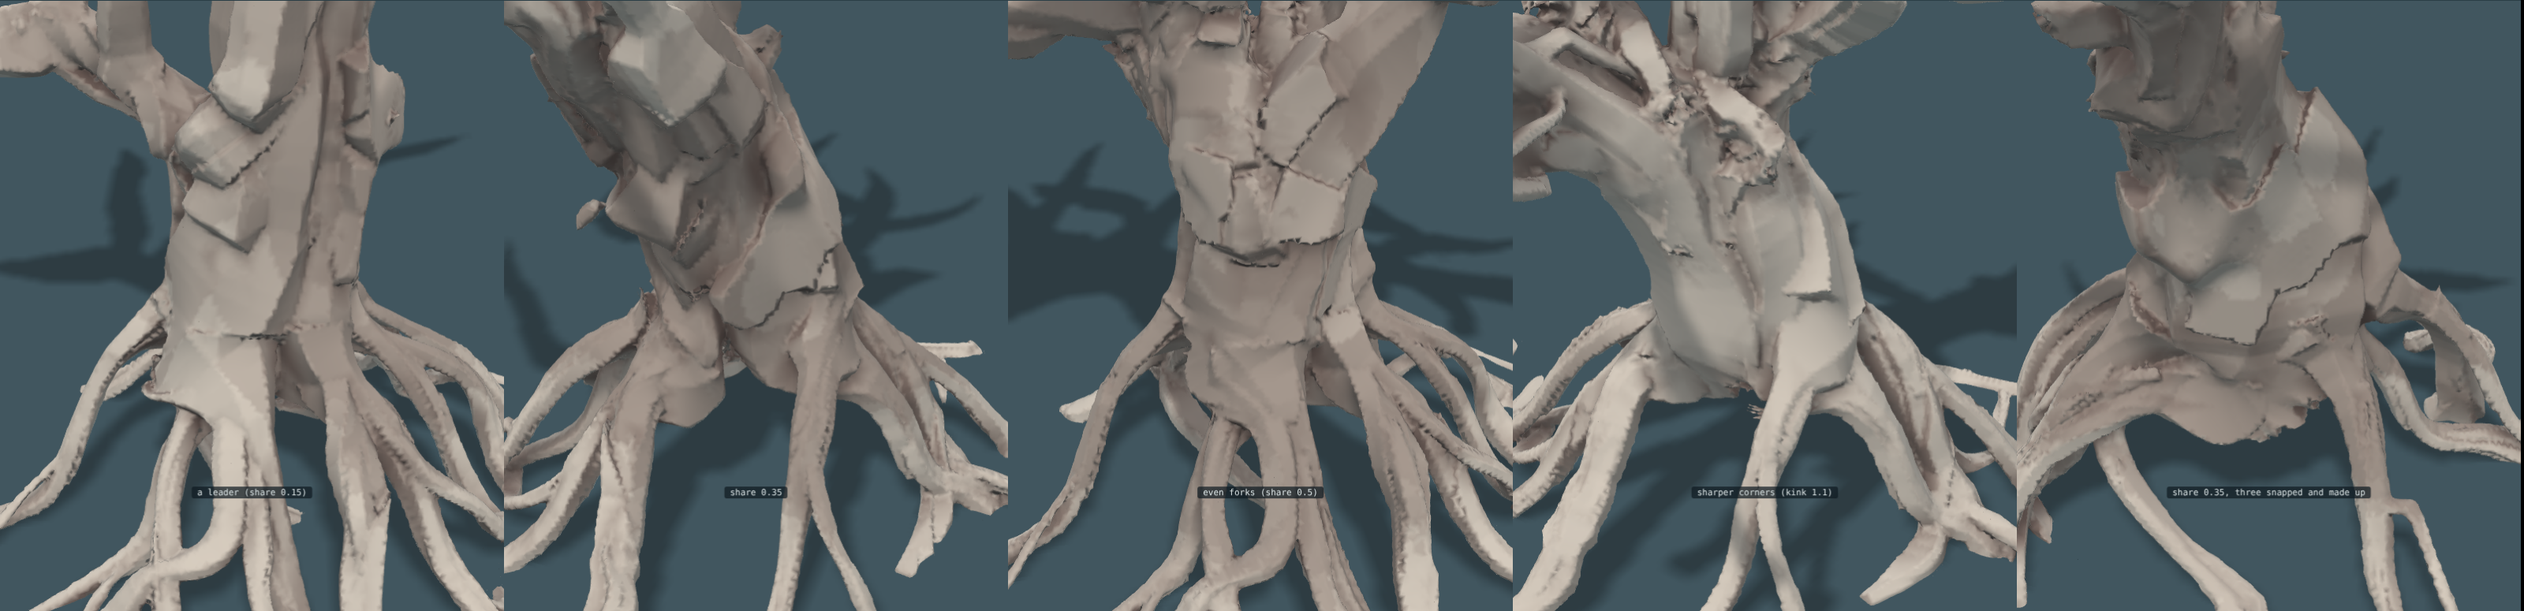
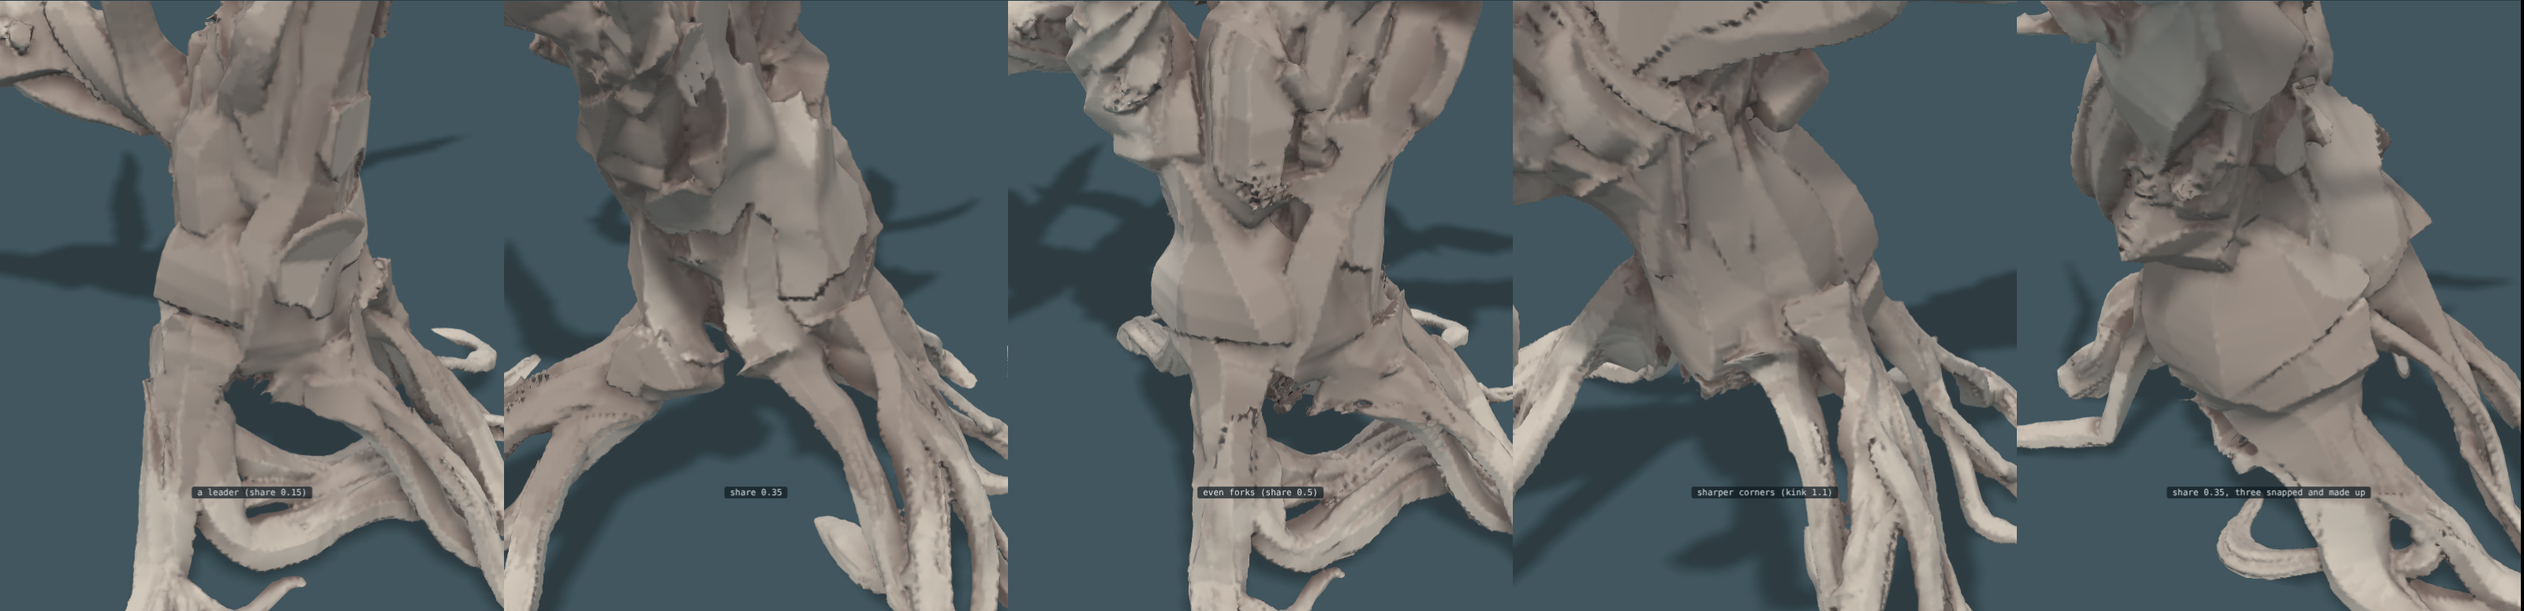
Hierarchy comes from the strands, not the share-out; and a ground that can say where it is soft
Claude-Session: https://claude.ai/code/session_0192rgp75jGkttZXf7hEakip

diff --git a/trees.js b/trees.js
@@ -30,10 +30,10 @@
   function frames(P) { let N = null; return P.map((p, i) => { const T = unit([0, 1, 2].map((k) => P[Math.min(P.length - 1, i + 1)][k] - P[Math.max(0, i - 1)][k])); N = unit((N || [1, 0, 0.2]).map((v, k, A) => v - T[k] * dot(A, T))); return [T, N, cross(T, N)]; }); }
 
   function grow(recipe) {
-    const P = Object.assign({ strands: 8, fill: 0.75, uneven: 0.5, twist: 0.5, taut: 0.3, stiff: 0.05, hug: 0.15, bind: 0.004, roots: 0.6, wind: 1.1, mixed: false, lmax: 0, set: 0, swell: 1, feet: 0, lap: 0, ground: null, down: 0.6, crease: 3.2, seam: 0.55, seams: 7, hem: 2.2, leg: 0.16, knuckle: 0.55, knee: 0.3, sinew: 0.17, apart: 1, slack: 0.11, press: 1.3, forkBy: 0.42, weave: 1, bridge: 2.2, toe: 0.13, tip: 0.26, snake: 1, air: 0.18, reach: 0.6, eyes: 0.4, hang: 0.3, bold: 0.35, brace: 0.12, bite: 1.8, forks: 1, dive: 0.12, slant: 0.75, clumps: 3, cling: 0.88, grip: 0.5, collar: 2, flare: 0.07, waste: 0.25, clear: 1, settle: 0, giving: 0.75, passes: 1500, ds: 0.035, seed: 1, trunk: [[0, 0.14, 0, 0.27], [0, 1.6, 0, 0.1]], limbs: [], orb: null }, recipe);
+    const P = Object.assign({ strands: 8, fill: 0.75, uneven: 0.5, twist: 0.5, taut: 0.3, stiff: 0.05, hug: 0.15, bind: 0.004, roots: 0.6, wind: 1.1, mixed: false, lmax: 0, set: 0, swell: 1, feet: 0, lap: 0, ground: null, down: 0.6, crease: 3.2, seam: 0.55, seams: 7, hem: 2.2, leg: 0.16, knuckle: 0.55, knee: 0.3, sinew: 0.17, apart: 1, bury: 0, rank: 2.6, slack: 0.11, press: 1.3, forkBy: 0.42, weave: 1, bridge: 2.2, toe: 0.13, tip: 0.26, snake: 1, air: 0.18, reach: 0.6, eyes: 0.4, hang: 0.3, bold: 0.35, brace: 0.12, bite: 1.8, forks: 1, dive: 0.12, slant: 0.75, clumps: 3, cling: 0.88, grip: 0.5, collar: 2, flare: 0.07, waste: 0.25, clear: 1, settle: 0, giving: 0.75, passes: 1500, ds: 0.035, seed: 1, trunk: [[0, 0.14, 0, 0.27], [0, 1.6, 0, 0.1]], limbs: [], orb: null }, recipe);
     // The ground, if the tree is given one: any function of a place that is how far it is outside the ground (less than
     // nothing inside). Without one the ground is the level at height 0, as it always was. (A grown tree is always given one, level if nothing else, so that its roots are walked.)
-    const G = P.ground, gradG = G ? (x, y, z) => { const e = 0.008; return unit([G(x + e, y, z) - G(x - e, y, z), G(x, y + e, z) - G(x, y - e, z), G(x, y, z + e) - G(x, y, z - e)]); } : null, rootPts = [];
+    const G = P.ground, softAt = G && G.soft && P.bury ? G.soft : null, gradG = G ? (x, y, z) => { const e = 0.008; return unit([G(x + e, y, z) - G(x - e, y, z), G(x, y + e, z) - G(x, y - e, z), G(x, y, z + e) - G(x, y, z - e)]); } : null, rootPts = [];
     // How hollow the ground is at a place: positive in a groove, negative over a rib, zero on anything flat or
     // evenly sloped. Taken from the ground alone, so every root that crosses the same seam finds the same seam.
     const nook = G ? (p, nn) => { const e = 0.05, t1 = unit(cross(nn, Math.abs(nn[1]) < 0.85 ? UP : [1, 0, 0])), t2 = cross(nn, t1); let a = 4 * G(p[0], p[1], p[2]);
@@ -73,7 +73,7 @@
     // stream, so every new thing asked of a root on ground moved every draw after it and the level-ground trees
     // changed although no rule of theirs had. They are their own question and they get their own numbers.
     let walkN = 0;
-    const walk = G ? (p0, away, rho0, len, dives, collar) => { const rw = rng(P.seed * 7919 + (walkN++) * 104729), rb2 = r, rx = [], rr = [], c0 = G(p0[0], p0[1], p0[2]), most = Math.round(len / ds) * 5, wob = TAU * rw(), wl = 0.25 + 0.3 * rw();
+      const walk = G ? (p0, away, rho0, len, dives, collar, rank) => { const rw = rng(P.seed * 7919 + (walkN++) * 104729), rb2 = r, rx = [], rr = [], c0 = G(p0[0], p0[1], p0[2]), most = Math.round(len / ds) * 5, wob = TAU * rw(), wl = 0.25 + 0.3 * rw();
       // Whether this root is one that will go over an edge at all. Most turn and run along the lip, where the
       // soil is; a `bold` one commits to the face, and once on it braces rather than hangs. A rule that tells
       // every root the same thing gives either a cliff no root will touch or a cliff every root pours down.
@@ -86,7 +86,7 @@
             for (let it = 0; it < 14; it++) { const gn = gradG(q[0], q[1], q[2]); q = [0, 1, 2].map((c) => q[c] - gn[c] * G(q[0], q[1], q[2])); }
             tot++; if (Math.abs(gradG(q[0], q[1], q[2])[1]) > 0.72 && q[1] > p0[1] - 0.32) good++; } }
         lieShare = good / tot; }
-      const heavy = Math.max(0, Math.min(1, (rho0 / P.trunk[0][3] - 0.07) / 0.2));
+      const heavy = Math.max(0, Math.min(1, (rho0 * (rank || 1) / P.trunk[0][3] - 0.07) / 0.2));
       const bold = rw() < Math.min(0.9, P.bold * (0.3 + 1.9 * (1 - lieShare)) * (1.4 - 0.9 * heavy)) ? 0.12 : 1;
       const hookAt = 0.5 + 0.38 * rw();
       let braceWay = rw() < 0.5 ? 1 : -1, hooked = 0;
@@ -119,7 +119,7 @@
       const sinew = (far) => 1 + P.sinew * (0.62 * Math.sin(sp1 + TAU * far / sl1) + 0.38 * Math.sin(sp2 + TAU * far / sl2));
       const girth = (g, far) => sinew(far) * rho0 * (collar ? P.grip * (1 + (P.collar - 1) * Math.pow(Math.max(0, 1 - far / P.flare), 1.6)) : 1) * (1 - P.waste * g) * (dives ? 1 : Math.pow(Math.min(1, (1 - g) / P.toe), 0.7) * (1 - P.tip) + P.tip);
       const room = (pr, own) => { if (Math.abs(pr[0]) > 0.97 || Math.abs(pr[2]) > 0.97) return 0; let near = 0.22; for (const q of rootPts) near = Math.min(near, H(pr[0] - q[0], pr[1] - q[1], pr[2] - q[2])); for (let e = 0; e < own; e++) near = Math.min(near, H(pr[0] - rx[e][0], pr[1] - rx[e][1], pr[2] - rx[e][2])); return near; };
-      for (let m = 1; m <= most && prog < len; m++) { const g = Math.min(1, prog / len), rad = girth(g, gone), nn = gradG(pos[0], pos[1], pos[2]), nk = Math.min(1.4, nook(pos, nn) * P.seams), hug = rad * (legHug - P.knuckle * 0.6 * Math.max(0, 1 - since / 2.5)) - rad * P.seam * Math.max(0, nk) + rad * 0.5 * Math.max(0, Math.min(1, -nk)) - rad * P.bite * Math.max(0, 1 - Math.abs(nn[1]) - 0.45) / 0.3 * Math.max(hooked, Math.max(0, Math.min(1, nk)), 0.5 * Math.max(0, Math.sin(wob * 2 + TAU * gone / (wl * 0.55)))), want = c0 + (hug - c0) * sstep(0, P.dive + P.slant * steepness * Math.max(0, c0), gone) - (dives ? 0.3 * sstep(0.72, 1, g) : 0);
+      for (let m = 1; m <= most && prog < len; m++) { const g = Math.min(1, prog / len), rad = girth(g, gone), nn = gradG(pos[0], pos[1], pos[2]), nk = Math.min(1.4, nook(pos, nn) * P.seams), sf = softAt ? Math.max(0, Math.min(1, softAt(pos[0], pos[1], pos[2]))) : 0, hug = rad * (legHug - P.bury * sf - P.knuckle * 0.6 * Math.max(0, 1 - since / 2.5)) - rad * P.seam * Math.max(0, nk) + rad * 0.5 * Math.max(0, Math.min(1, -nk)) - rad * P.bite * Math.max(0, 1 - Math.abs(nn[1]) - 0.45) / 0.3 * Math.max(hooked, Math.max(0, Math.min(1, nk)), 0.5 * Math.max(0, Math.sin(wob * 2 + TAU * gone / (wl * 0.55)))), want = c0 + (hug - c0) * sstep(0, P.dive + P.slant * steepness * Math.max(0, c0), gone) - (dives ? 0.3 * sstep(0.72, 1, g) : 0);
         let tt = h.map((v, k) => v - nn[k] * dot(h, nn)); const dn = UP.map((v, k) => -(v - nn[k] * nn[1])), dl = H(dn[0], dn[1], dn[2]); if (H(tt[0], tt[1], tt[2]) < 0.2) tt = dl > 1e-6 ? dn : cross(nn, [1, 0, 0]); tt = unit(tt);
         // On a face it cannot lie on, a root does not hang down it: it braces. It works across the fall line in
         // runs, turning hard at the end of each so the turns are corners and not a curve, and it bites in — it is
@@ -201,7 +201,7 @@
         // whatever its line does in plan. That is a ribbon on a surface.
         // (this holds on the way down as well: a root does not slide down to the ground, it comes down in steps,
         //  on its knuckles, with the spans between them riding high)
-        { const plant = turning || since <= 1, stand = want + P.bridge * rad;
+        { const plant = turning || since <= 1, stand = want + P.bridge * rad * (1 - sf);
           for (let it = 0; it < 3; it++) { const gn = gradG(nx[0], nx[1], nx[2]), gv = G(nx[0], nx[1], nx[2]);
             const to = plant ? want : gv < want ? want : gv > stand ? stand : gv;
             if (to === gv) break;
@@ -279,6 +279,15 @@
     const clump = []; { const rc = rng(P.seed + 404), nc = Math.max(1, P.clumps); const a0 = TAU * rc();
       for (let i = 0; i < nc; i++) clump.push(a0 + TAU * (i + 0.5 * (rc() - 0.5)) / nc); }
     const toClump = (a) => { let best = a, bd = 9; for (const c of clump) { let d = Math.abs(((c - a + PI) % TAU + TAU) % TAU - PI); if (d < bd) { bd = d; best = c; } } return a + (((best - a + PI) % TAU + TAU) % TAU - PI) * P.cling; };
+    // the foot's families, drawn before the roots are walked so that each knows what it will carry
+    const rd = rng(P.seed + 311), order = S.map((s2, i) => i).sort((x, y) => Math.atan2(S[x].b, S[x].a) - Math.atan2(S[y].b, S[y].a));
+    const edge = [0], wt = Array.from({ length: P.feet }, () => Math.pow(0.1 + rd(), P.rank)), tot = wt.reduce((a, b) => a + b, 0);
+    if (P.feet && P.feet < n) { let acc = 0;
+      for (const w of wt) { acc += w; edge.push(Math.round((acc / tot) * n)); }
+      for (let g = 0; g < P.feet; g++) { const mem = order.slice(edge[g], edge[g + 1]); if (mem.length < 2) continue;
+        const lead = mem.reduce((v, i) => (H(S[i].a, S[i].b) > H(S[v].a, S[v].b) ? i : v), mem[0]);
+        let area = 0; for (const i of mem) area += S[i].fat * S[i].fat;
+        S[lead].rank = Math.sqrt(area) / S[lead].fat; } }
     for (const s of S) {
       const path = s.limb >= 0 ? limbs[s.limb].path : trunk, fr = s.limb >= 0 ? limbs[s.limb].frames : tf, fi = s.limb >= 0 ? limbs[s.limb].fi : -1, own = path.length - 1 - Math.max(0, fi);
       const first = s === S.find((q) => q.limb === s.limb), u1 = r(), u2 = r(), u3 = r(), stub = s.limb >= 0 ? limbs[s.limb].L.stub : null; s.snapped = stub ? stub === 'fresh' : !first && u1 < 0.6;   // some strands snap short of the end, and keep their girth to the break
@@ -294,11 +303,11 @@
       // its root: the strand itself coming down from the foot of the trunk the way it faces there, heavy, and
       // most often going into the ground. A few stay on it and run out to a point.
       // (on ground nearly all roots go into it at their end; the old flat roots are left as they were)
-      const p0 = X[0], a0 = toClump(Math.atan2(p0[2] - trunk[0][2], p0[0] - trunk[0][0])), away = G ? [Math.cos(a0), 0, Math.sin(a0)] : H(p0[0] - trunk[0][0], p0[2] - trunk[0][2]) > 1e-4 ? unit([p0[0] - trunk[0][0], 0, p0[2] - trunk[0][2]]) : [1, 0, 0], len = P.roots * (0.5 + 0.5 * r()), bend = 2.6 * (r() - 0.5), dives = r() < (G ? 0.9 : 0.75), rx = [], rr = [], rg = []; let q = p0, Kr = Math.max(6, Math.round(len / ds));
+      const p0 = X[0], a0 = toClump(Math.atan2(p0[2] - trunk[0][2], p0[0] - trunk[0][0])), away = G ? [Math.cos(a0), 0, Math.sin(a0)] : H(p0[0] - trunk[0][0], p0[2] - trunk[0][2]) > 1e-4 ? unit([p0[0] - trunk[0][0], 0, p0[2] - trunk[0][2]]) : [1, 0, 0], len = P.roots * (0.5 + 0.5 * r()) * (0.7 + 0.3 * (s.rank || 1)), bend = 2.6 * (r() - 0.5), dives = r() < (G ? 0.9 : 0.75), rx = [], rr = [], rg = []; let q = p0, Kr = Math.max(6, Math.round(len / ds));
       if (!G) {
         for (let m = 1; m <= Kr; m++) { const g = m / Kr, t = bend * g * g, dir = [away[0] * Math.cos(t) - away[2] * Math.sin(t), 0, away[0] * Math.sin(t) + away[2] * Math.cos(t)], rad = rho[0] * (dives ? 0.5 + 0.5 * (1 - g) : 0.2 + 0.8 * Math.pow(1 - g, 0.8));
           q = [q[0] + dir[0] * ds, p0[1] + (rad * 0.6 - p0[1]) * sstep(0, 0.8, g) - (dives ? 0.35 * sstep(0.6, 1, g) : 0), q[2] + dir[2] * ds]; rx.push(q); rr.push(rad); rg.push(q); }
-      } else { const w = walk(p0, away, rho[0], len, dives, 1); for (let e = 0; e < w.rx.length; e++) { rx.push(w.rx[e]); rg.push(w.rx[e]); rr.push(w.rr[e]); rootPts.push(w.rx[e]); } Kr = rx.length; }
+      } else { const w = walk(p0, away, rho[0], len, dives, 1, s.rank || 1); for (let e = 0; e < w.rx.length; e++) { rx.push(w.rx[e]); rg.push(w.rx[e]); rr.push(w.rr[e]); rootPts.push(w.rx[e]); } Kr = rx.length; }
       s.root = Kr; s.K = Kr + X.length; const all = rx.reverse().concat(X), goals = rg.reverse().concat(goal);
       s.X = Float64Array.from(all.flat()); s.goal = Float64Array.from(goals.flat()); s.rho = Float64Array.from(rr.reverse().concat(rho));
       // The shape a strand holds against tension is written in one frame all along it. A root's goal is the places
@@ -318,10 +327,7 @@
     // wood divides all the way up and at no one level, and there is as much of it at any level as there was: no
     // waist. A root does not end and a branch does not start. One divides into the other.
     if (P.feet && P.feet < n) {
-      const rd = rng(P.seed + 311), order = S.map((s, i) => i).sort((x, y) => Math.atan2(S[x].b, S[x].a) - Math.atan2(S[y].b, S[y].a));
-      // the families are not of a size: cut the ring at uneven places, so the foot has a few heavy roots and some slight ones
-      const wt = Array.from({ length: P.feet }, () => 0.35 + 1.3 * rd()), tot = wt.reduce((a, b) => a + b, 0), edge = [0], cuts = []; let acc = 0;
-      for (const w of wt) { acc += w; edge.push(Math.round((acc / tot) * n)); }
+      const cuts = [];
       for (let g = 0; g < P.feet; g++) { const mem = order.slice(edge[g], edge[g + 1]); if (mem.length < 2) continue;
         const lead = mem.reduce((v, i) => (H(S[i].a, S[i].b) > H(S[v].a, S[v].b) ? i : v), mem[0]), L = S[lead], endL = L.K - 1 - L.root, add = new Float64Array(L.K);
         for (const i of mem) { if (i === lead) continue; const B = S[i], endB = B.K - 1 - B.root; let dv = 0; while (dv < Math.min(endL, endB) && ownerAt(L.limb, dv + 1) === ownerAt(B.limb, dv + 1)) dv++;
@@ -598,7 +604,7 @@
   // rule, and `share` is its main number (small: a leader with side shoots; a half: even forks and no leader).
   // Returns { strands, trunk, limbs } for grow(), and what it made (shoots, tips, deepest).
   function sprout(rule) {
-    const Q = Object.assign({ strands: 18, seed: 1, share: 0.35, every: 0.1, first: 0.25, spread: 1.3, up: 0.4, wander: 0.5, reach: 1.15, tall: 1.1, twig: 0.22, foot: 0.2, step: 0.08, kink: 0.7, bout: 0.16, set: 0.8, snap: 0, as: 'mixed', least: 2, most: 0.25, regrow: true, feet: 8, lap: 0.3, ground: null, site: [0, 0], roots: 0.55, perch: 1.9 }, rule), r = rng(Q.seed + 700), n = Q.strands, st = Q.step;
+    const Q = Object.assign({ strands: 18, seed: 1, share: 0.35, every: 0.1, first: 0.25, spread: 1.3, up: 0.4, wander: 0.5, reach: 1.15, tall: 1.1, twig: 0.22, foot: 0.2, step: 0.08, kink: 0.7, bout: 0.16, set: 0.8, snap: 0, as: 'mixed', least: 2, most: 0.25, regrow: true, feet: 8, lap: 0.3, ground: null, site: [0, 0], roots: 0.55, perch: 1.9, uneven: 0.95 }, rule), r = rng(Q.seed + 700), n = Q.strands, st = Q.step;
     const length = (c) => Q.reach * (Q.twig + Math.sqrt(c / n)), Gq = Q.ground, inside = (p) => Math.abs(p[0]) < 0.9 && Math.abs(p[2]) < 0.9 && p[1] < 1.9 && (Gq ? Gq(p[0], p[1], p[2]) > 0.12 : p[1] > 0.3), laid = [];   // every point of every shoot so far
     const open = (p) => { let d = Gq ? Math.max(0, Gq(p[0], p[1], p[2])) * 1.2 : 9; for (const q of laid) d = Math.min(d, H(p[0] - q[0], p[1] - q[1], p[2] - q[2])); return d; };   // (open: far from every shoot, and from the ground and any rock)
     let shoots = 0, tips = 0, deepest = 0;
@@ -652,7 +658,7 @@
       (L.par ? L.par.limbs : limbs).push(o); for (let q = L.par; q; q = q.par) q.count += k; extra += k; regrown++; }
     walk(limbs, (l) => { delete l.host; delete l.par; delete l.own; delete l.lost; });
     const Rn = R0 * Math.sqrt((n + extra) / n);   // the foot is as much broader as the tree has more strands, so that no strand is thinner for it
-    return { strands: n + extra, trunk: [[p0[0], p0[1], p0[2], Rn]].concat(top.path.map((p, i) => [p[0], p[1], p[2], Rn * (1 - 0.5 * (i + 1) / top.path.length)])), limbs, set: Q.set, feet: Q.feet, lap: Q.lap, ground: Q.ground || level, roots: Q.roots, made: { shoots, tips, deepest, snapped, regrown, strands: n + extra } };
+    return { uneven: Q.uneven, strands: n + extra, trunk: [[p0[0], p0[1], p0[2], Rn]].concat(top.path.map((p, i) => [p[0], p[1], p[2], Rn * (1 - 0.5 * (i + 1) / top.path.length)])), limbs, set: Q.set, feet: Q.feet, lap: Q.lap, ground: Q.ground || level, roots: Q.roots, made: { shoots, tips, deepest, snapped, regrown, strands: n + extra } };
   }
 
   // level ground at height 0, for a grown tree that is given no other. Marked, so that whoever draws the tree need not draw it.

diff --git a/sketch/page11.js b/sketch/page11.js
@@ -27,11 +27,16 @@
     ['on a boulder', all(under([0.05, 1, -0.05], [0, 0.1, 0]), rock([0, 0.32, 0], 0.4, 11, [1.1, 0.85, 1])), [0.03, 0.02], 3],
     ['in a cleft', all(under([0, 1, 0.06], [0, 0.08, 0]), rock([-0.5, 0.3, 0.02], 0.36, 13, [1, 1.1, 1.2]), rock([0.5, 0.28, -0.04], 0.36, 17, [1, 1.05, 1.2])), [0, 0], 4],
     ['on a bank the rain has cut away', cut(all(under([0.1, 1, 0.3], [0, 0.46, 0]), rock([0.55, 0.12, -0.5], 0.18, 19)), bowl([0.2, 0.18, 0.34], 0.52, [1, 0.75, 1])), [-0.1, -0.06], 6],
+    // A ground that says where it is soft. Soil everywhere but the stone, and the bury dial tells a root what to do
+    // with that: go under where it can, stay on the surface and grip where it cannot. What shows of this tree's
+    // roots is only what crosses the stone, which is what a tree in soil shows.
+    ['in soil, round a stone', (() => { const soil = under([0.03, 1, 0.02], [0, 0.3, 0]), stone = rock([0.33, 0.4, -0.12], 0.31, 29, [1.2, 0.85, 1]);
+      const gg = all(soil, stone); gg.soft = (x, y, z) => (stone(x, y, z) < 0.05 ? 0 : 1); return gg; })(), [-0.18, 0.12], 31, { bury: 2.1 }],
     ['on cracked rock', cut(all(under([0.05, 1, 0.04], [0, 0.34, 0]), rock([0.6, 0.18, 0.5], 0.22, 23)),
       all(groove([-0.95, 0.335, -0.3], [0.85, 0.30, 0.2], 0.036), groove([-0.25, 0.335, -0.9], [0.2, 0.315, 0.85], 0.027), groove([0.1, 0.33, -0.1], [0.75, 0.33, -0.75], 0.031))), [-0.2, 0.2], 23],
   ];
   const quick = typeof location !== 'undefined' ? +new URLSearchParams(location.search).get('h') : 0;   // ?h=0.013 for a quick look
-  const S = SITES.map(([name, ground, site, seed]) => [name, tree(Object.assign({ seed }, Trees.sprout({ seed, strands: 14, feet: 6, foot: 0.16, tall: 0.8, reach: 0.85, twig: 0.2, ground, site, roots: 0.85 })))]);
+  const S = SITES.map(([name, ground, site, seed, extra]) => [name, tree(Object.assign({ seed }, Trees.sprout({ seed, strands: 14, feet: 6, foot: 0.16, tall: 0.8, reach: 0.85, twig: 0.2, ground, site, roots: 0.85 }), extra || {}))]);
   if (typeof location !== 'undefined') { const only = new URLSearchParams(location.search).get('only'); if (only) { const keep = only.split(',').map(Number).map((i) => S[i]).filter(Boolean); S.length = 0; S.push(...keep); } }   // ?only=2 builds just that one
   window.Fantastic = { grounds: SITES.map((s) => s[1]), fields: S.map((s) => s[1]), names: S.map((s) => s[0]), orbs: S.map((s) => s[1].orb), counts: S.map((s) => s[1].count), build: (i) => { const g = mesh(S[i][1], S[i][0], quick || 0.0085, 2.05), n = g.pos.length / 3; g.layer = new Uint8Array(n); for (let q = 0; q < n; q++) g.layer[q] = S[i][1].layerAt(g.pos[q * 3] - g.nrm[q * 3] * 0.004, g.pos[q * 3 + 1] - g.nrm[q * 3 + 1] * 0.004, g.pos[q * 3 + 2] - g.nrm[q * 3 + 2] * 0.004); return g; }, mesh, kit: Fantastic.kit };
 })();

diff --git a/LOG.md b/LOG.md
@@ -4094,3 +4094,97 @@ that found they had almost none.
 
 The flutes, which were laid in the same round for the same wrong reason,
 turned out to be the thing that worked.
+
+## Hierarchy, and a ground that says where it is soft
+
+Two things, one settled and one put up for a decision.
+
+### The foot was a cable fraying
+
+"There's not enough hierarchy amongst the roots. It's like wires coming out
+of a braided cable." Measured: the heaviest root was 1.4 times the fourth,
+and a foot of a dozen roots within a factor of two of each other.
+
+I went at the share-out first -- the foot's families were cut at weights
+between 0.35 and 1.65 -- and drew them steeply instead. It barely moved.
+The reason is worth writing down: a family's girth is the root of the sum
+of its members' sections, and the members are strands of the trunk, so with
+fourteen strands in six families the heaviest family can hold eight and the
+lightest two, and that is a ratio of two however the weights are drawn.
+**The hierarchy was capped by the cable, not by how it was shared out.**
+
+The strands themselves were near-identical: `uneven` 0.5 puts all fourteen
+between 0.75 and 1.25 of each other. A grown tree's are drawn far more
+unequal now (0.95), and the foot has one or two roots that carry the tree
+and a scatter that do not. `mixed`, the power-law draw, was tried and is
+too much: one giant root, nothing else, and a trunk that stops reading as a
+bundle at all.
+
+      heaviest root against the trunk   0.24  ->  0.42
+      heaviest against the fourth       1.4   ->  2.4
+
+And a second fault found on the way: **which roots were to be heavy was
+settled after they had all been walked.** The families were cut and their
+shares added to the lead's girth once every root had already found its way,
+so a root that was going to carry a quarter of the tree walked as though it
+were one strand of fourteen -- it held no longer line than the rest,
+hemmed no lip, took the same slight way round everything, and only
+afterwards was fattened into a buttress. The share is drawn before the walk
+now, and a root that is to be heavy behaves heavy while it is finding its
+way.
+
+### Whether a root may go into the ground
+
+The rest of the message is a question the user has not decided, so this is
+a thing to look at rather than an answer:
+
+> the roots have some resistance against the ground, yes, but then they're
+> forced to crawl across impervious surfaces. But that's not the root's
+> fault [...] Whether the root is allowed to burrow or not seems to be
+> arbitrarily decided by the root itself and currently the answer is 'no'.
+
+Right on both counts. Nothing in the model ever asked the ground what it
+was made of. So: a ground may now carry a second reading beside how far
+outside it you are -- how soft it is there. Where it is soft a root sinks
+until it is under and is not seen; where it is rock it stays on the surface
+and grips. No soil, nothing simulated: one more function of a place,
+exactly like the ground itself, and the decision belongs to the place
+rather than to the root. With no such reading nothing changes.
+
+`in soil, round a stone` is the demonstration: soil everywhere but one
+stone, and what shows of that tree's roots is only what crosses the stone.
+
+**What it showed me is that the question is not the one being asked.**
+Burrowing is cheap and it works. What reads as lazy clipping is not a root
+going into the ground, it is a root going into the ground *without
+consequence* -- it meets a flat surface and ends, and nothing about the
+ground acknowledges it. A real one heaves the soil over itself, and the
+heave is what sells the burrow. That is drawable from what is already here
+(a low ridge of ground material over a shallow buried root, tagged as
+ground) and it is the next thing to build if this direction is wanted.
+
+So the choice is not between real soil mechanics and arbitrary burrowing.
+It is: the ground says soft or hard, which costs one function, and the
+burrow is paid for by a heave, which costs a ridge. Granite stays granite
+because the ground says so, not because the root was polite.
+
+And a near miss worth recording: the factor that makes a heavy root run
+further came out as `0.72 + 0.3 * rank`, which is 1.02 at rank 1, not 1.
+Page 7's four have no families at all, so nothing about this round should
+have touched them -- and their fingerprint moved, because every root on
+every tree in the repository got 2% longer. A multiplier that is meant to
+leave something alone has to be exactly 1 where it leaves it alone, and
+the only reason I caught it is that four trees are pinned and checked.
+
+A cost that came with the uneven strands, and it bears on the user's worry
+about build time in a procedural world: a page 9 tree now takes 30 to 68
+seconds to settle where it took about ten. The strands are fatter and more
+unequal, so far more pairs of them are close enough to push on each other,
+and the settling is quadratic in that. Nothing is broken -- the renders
+just stopped fitting in their five-minute budget and had to be given
+fifteen. Worth knowing before any of this is asked to run on a player's
+machine: the expensive part is not growing the line, it is settling the
+wood.
+
+      page 9's lines, from here   a0e3772461 7aa37cf6f1 b49b812a0e 3a141a6fa2 f8630c5170
+      page 7's four, unchanged    e387ada36c 17dc01b122 a61f129179 b2eac9db5f
